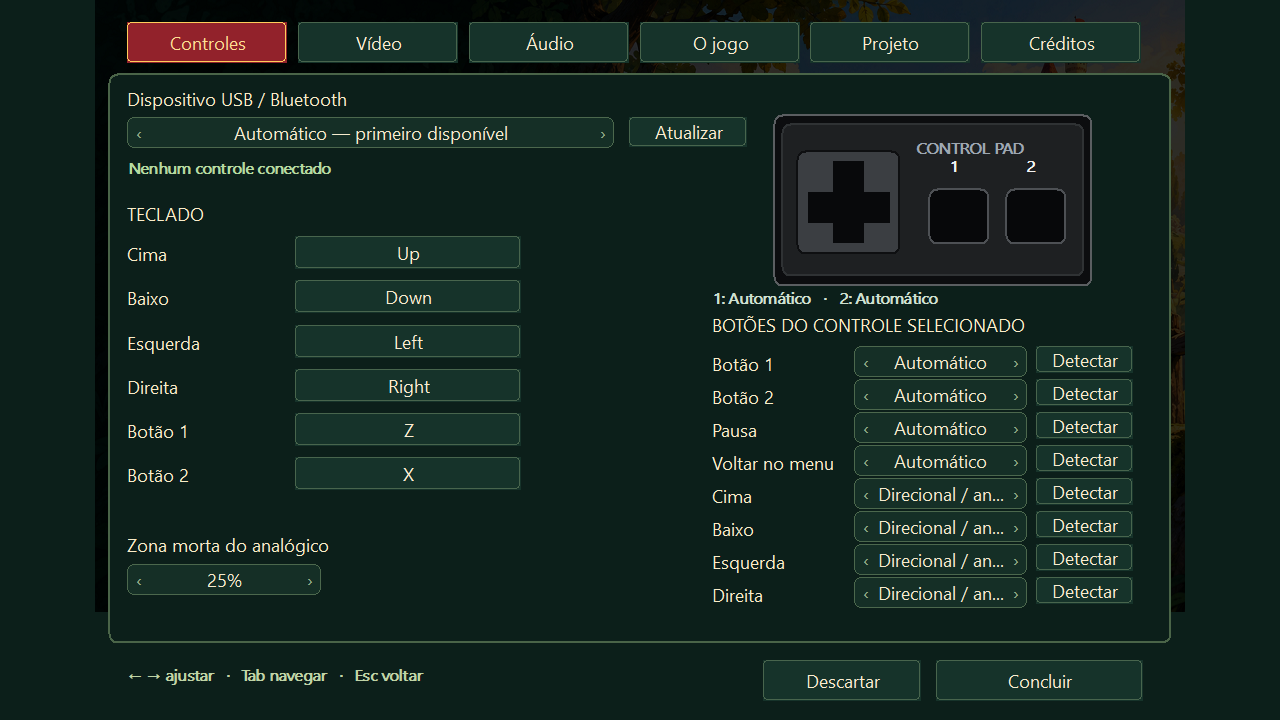
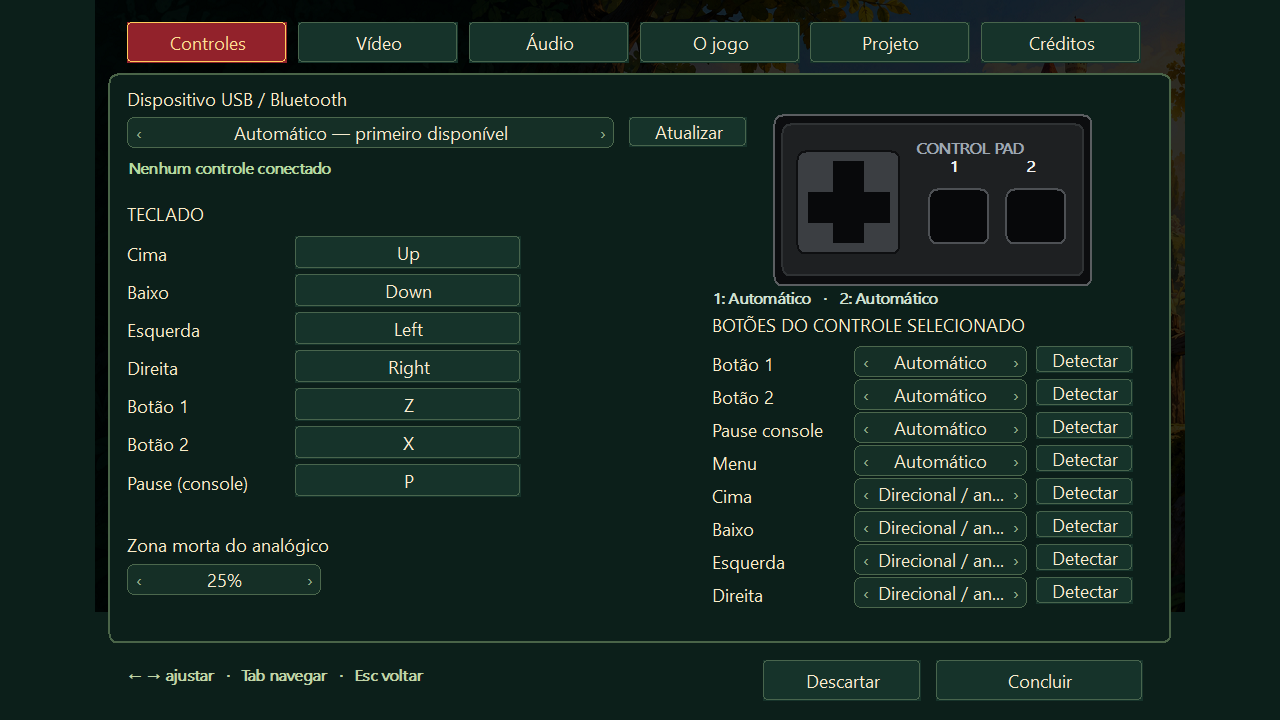
Add original console Pause through NMI with replay-safe input and modern menu separation

diff --git a/src/preferences.c b/src/preferences.c
@@ -14,7 +14,7 @@
 #include <uxtheme.h>
 
 static HWND nav[6];static DWORD page_started,screen_started;static int closing;
-static HWND dialog,owner,tabs,items[96],key_buttons[6],pad_combos[8],device_combo,deadzone_combo;
+static HWND dialog,owner,tabs,items[96],key_buttons[7],pad_combos[8],device_combo,deadzone_combo;
 static HWND video_controls[8],audio_controls[6];
 static Preferences pending,original,*target;
 static InputDevice devices[32];static int device_count,item_count,current_tab,capture_key=-1,capture_pad=-1,release_pad;
@@ -22,18 +22,18 @@ static HBRUSH paper;static HFONT normal,heading,caption,widget_font;static wchar
 typedef struct{uint32_t *pixels;UINT w,h;BITMAPINFO info;} Picture;
 static Picture cover,advert,forest;
 static wchar_t feedback[200];
-static const wchar_t *actions[]={L"Cima",L"Baixo",L"Esquerda",L"Direita",L"Botão 1",L"Botão 2"};
-static const wchar_t *pad_actions[]={L"Botão 1",L"Botão 2",L"Pausa",L"Voltar no menu",L"Cima",L"Baixo",L"Esquerda",L"Direita"};
+static const wchar_t *actions[]={L"Cima",L"Baixo",L"Esquerda",L"Direita",L"Botão 1",L"Botão 2",L"Pause (console)"};
+static const wchar_t *pad_actions[]={L"Botão 1",L"Botão 2",L"Pause console",L"Menu",L"Cima",L"Baixo",L"Esquerda",L"Direita"};
 static int clamp(int v,int low,int high){return v<low?low:v>high?high:v;}
 static void read_int(const wchar_t *section,const wchar_t *name,int *v,int low,int high,const wchar_t *path){*v=clamp(GetPrivateProfileIntW(section,name,*v,path),low,high);}
 static void write_int(const wchar_t *s,const wchar_t *k,int v,const wchar_t *path){wchar_t value[32];swprintf(value,32,L"%d",v);WritePrivateProfileStringW(s,k,value,path);}
 void preferences_defaults(Preferences *p){
-    memset(p,0,sizeof *p);int initial[]={VK_UP,VK_DOWN,VK_LEFT,VK_RIGHT,'Z','X'};memcpy(p->keys,initial,sizeof initial);
+    memset(p,0,sizeof *p);int initial[]={VK_UP,VK_DOWN,VK_LEFT,VK_RIGHT,'Z','X','P'};memcpy(p->keys,initial,sizeof initial);
     for(int i=0;i<8;i++)p->buttons[i]=-1;p->deadzone=25;p->resolution=1;p->volume=100;p->sample_rate=48000;p->brightness=100;p->latency=1;
 }
 void preferences_load(Preferences *p,const wchar_t *path){
     preferences_defaults(p);wchar_t key[32],device[512];
-    for(int i=0;i<6;i++){swprintf(key,32,L"key%d",i);read_int(L"input",key,&p->keys[i],1,254,path);}
+    for(int i=0;i<7;i++){swprintf(key,32,L"key%d",i);read_int(L"input",key,&p->keys[i],1,254,path);}
     for(int i=0;i<8;i++){swprintf(key,32,L"button%d",i);read_int(L"input",key,&p->buttons[i],-1,255,path);}
     GetPrivateProfileStringW(L"input",L"device",L"",device,512,path);WideCharToMultiByte(CP_UTF8,0,device,-1,p->device,512,NULL,NULL);
     read_int(L"input",L"deadzone",&p->deadzone,5,80,path);
@@ -48,7 +48,7 @@ void preferences_load(Preferences *p,const wchar_t *path){
 }
 void preferences_save(const Preferences *p,const wchar_t *path){
     wchar_t k[32],device[512];
-    for(int i=0;i<6;i++){swprintf(k,32,L"key%d",i);write_int(L"input",k,p->keys[i],path);}
+    for(int i=0;i<7;i++){swprintf(k,32,L"key%d",i);write_int(L"input",k,p->keys[i],path);}
     for(int i=0;i<8;i++){swprintf(k,32,L"button%d",i);write_int(L"input",k,p->buttons[i],path);}
     MultiByteToWideChar(CP_UTF8,0,p->device,-1,device,512);WritePrivateProfileStringW(L"input",L"device",device,path);
     write_int(L"input",L"deadzone",p->deadzone,path);
@@ -127,7 +127,7 @@ static void build_page(int page){
     if(page==0){
         label(L"Dispositivo USB / Bluetooth",32,84,450);device_combo=combo(32,114,475,10);widget(L"BUTTON",L"Atualizar",WS_TABSTOP,520,114,115,30,11);rebuild_devices();
         label(L"TECLADO",32,196,300);
-        for(int i=0;i<6;i++){wchar_t name[80];key_name(pending.keys[i],name);label(actions[i],32,235+i*43,160);key_buttons[i]=widget(L"BUTTON",name,WS_TABSTOP,195,230+i*43,220,33,100+i);}
+        for(int i=0;i<7;i++){wchar_t name[80];key_name(pending.keys[i],name);label(actions[i],32,235+i*37,160);key_buttons[i]=widget(L"BUTTON",name,WS_TABSTOP,195,230+i*37,220,33,100+i);}
         label(L"Zona morta do analógico",32,518,340);deadzone_combo=combo(32,549,190,12);for(int i=0;i<13;i++){wchar_t p[20];swprintf(p,20,L"%d%%",10+i*5);option(deadzone_combo,p);}select_at(deadzone_combo,clamp((pending.deadzone-10)/5,0,12));
         label(L"BOTÕES DO CONTROLE SELECIONADO",600,304,390);
         int n=input_button_count();if(n<32)n=32;if(n>128)n=128;
@@ -271,7 +271,7 @@ static LRESULT CALLBACK procedure(HWND hwnd,UINT msg,WPARAM wp,LPARAM lp){
         if(id==2){input_select(original.device);input_configure(original.buttons);input_set_deadzone(original.deadzone);closing=1;screen_started=GetTickCount();return 0;}
         if(id==11){rebuild_devices();return 0;}
         if(id==10 && HIWORD(wp)==CBN_SELCHANGE){int i=selection(device_combo);snprintf(pending.device,sizeof pending.device,"%s",i>0&&i<=device_count?devices[i-1].key:"");input_select(pending.device);input_update();InvalidateRect(hwnd,NULL,FALSE);return 0;}
-        if(id>=100&&id<106){capture_key=id-100;SetWindowTextW(key_buttons[capture_key],L"Pressione uma tecla…");return 0;}
+        if(id>=100&&id<107){capture_key=id-100;SetWindowTextW(key_buttons[capture_key],L"Pressione uma tecla…");return 0;}
         if(id>=300&&id<308){capture_pad=id-300;release_pad=0;SetWindowTextW(hwnd,L"Solte e pressione o botão desejado no controle");return 0;}
         if(id==50)ShellExecuteW(hwnd,L"open",L"https://turmadamonica.fandom.com/pt-br/wiki/M%C3%B4nica_no_Castelo_do_Drag%C3%A3o",NULL,NULL,SW_SHOWNORMAL);
         if(id==51)ShellExecuteW(hwnd,L"open",L"https://www.smspower.org/Games/MonicaNoCasteloDoDragao-SMS",NULL,NULL,SW_SHOWNORMAL);
@@ -296,7 +296,7 @@ void preferences_open(HWND parent,Preferences *p,int tab,const wchar_t *assets){
 int preferences_route(MSG *msg){
     if(!dialog)return 0;
     if(capture_key>=0 && msg->message==WM_KEYDOWN){
-        int key=(int)msg->wParam;if(key!=VK_ESCAPE){int used=0;for(int i=0;i<6;i++)if(i!=capture_key&&pending.keys[i]==key)used=1;
+        int key=(int)msg->wParam;if(key!=VK_ESCAPE){int used=0;for(int i=0;i<7;i++)if(i!=capture_key&&pending.keys[i]==key)used=1;
             if(used || key==VK_F2||key==VK_F5||key==VK_F9||key==VK_F11){wcscpy(feedback,L"Tecla em uso. Escolha outra para continuar.");InvalidateRect(dialog,NULL,FALSE);return 1;}pending.keys[capture_key]=key;}
         wchar_t name[80];key_name(pending.keys[capture_key],name);SetWindowTextW(key_buttons[capture_key],name);capture_key=-1;feedback[0]=0;InvalidateRect(dialog,NULL,FALSE);return 1;
     }

diff --git a/src/app.c b/src/app.c
@@ -35,6 +35,8 @@ static wchar_t rom_path[32768], root[32768], ini[32768], pending_load[32768];
 static Replay movie;
 static int running, paused, start_requested, quitting, restart_requested, slot=1, full_screen;
 static int session_ended;
+static int console_pause_pulse;
+static int console_pause_hover;
 
 
 static uint32_t framebuffer[256*192];
@@ -138,8 +140,9 @@ static void set_paused(int value){
 }
 static int key_down(int key){return GetForegroundWindow()==window && (GetAsyncKeyState(key)&0x8000);}
 static uint8_t input_mask(void){
-    uint8_t mask=0;for(int i=0;i<6;i++)if(key_down(keys[i]))mask|=1<<i;
-    if(GetForegroundWindow()==window)mask|=input_read().pad;return mask;
+    uint8_t mask=0;for(int i=0;i<7;i++)if(key_down(keys[i]))mask|=1<<i;
+    if(GetForegroundWindow()==window){InputState input=input_read();mask|=input.pad;if(input.menu&INPUT_START)mask|=SMS_PAD_START;}
+    if(console_pause_pulse){mask|=SMS_PAD_START;console_pause_pulse=0;}return mask;
 }
 static void paint_content(HDC dc,RECT client){
     int w=client.right,h=client.bottom;
@@ -157,6 +160,9 @@ static void paint_content(HDC dc,RECT client){
     BITMAPINFO info={0};info.bmiHeader.biSize=sizeof(BITMAPINFOHEADER);info.bmiHeader.biWidth=256;info.bmiHeader.biHeight=-192;info.bmiHeader.biPlanes=1;info.bmiHeader.biBitCount=32;
     SetStretchBltMode(dc,cfg.filter?HALFTONE:COLORONCOLOR);
     StretchDIBits(dc,dest.left,dest.top,dest.right-dest.left,dest.bottom-dest.top,source.left,source.top,source.right-source.left,source.bottom-source.top,display,&info,DIB_RGB_COLORS,SRCCOPY);
+    RECT button={w-48,14,w-14,48};HBRUSH b=CreateSolidBrush(console_pause_hover?RGB(146,34,43):RGB(12,31,26));HPEN p=CreatePen(PS_SOLID,1,RGB(211,184,112));HGDIOBJ ob=SelectObject(dc,b),op=SelectObject(dc,p);
+    RoundRect(dc,button.left,button.top,button.right,button.bottom,10,10);SelectObject(dc,ob);SelectObject(dc,op);DeleteObject(b);DeleteObject(p);
+    b=CreateSolidBrush(RGB(255,225,159));RECT bar={w-37,24,w-33,39};FillRect(dc,&bar,b);OffsetRect(&bar,8,0);FillRect(dc,&bar,b);DeleteObject(b);
     draw_notification(dc,w,h);
 }
 static void paint(HDC dc,RECT client){
@@ -250,6 +256,8 @@ static LRESULT CALLBACK window_proc(HWND hwnd,UINT msg,WPARAM wp,LPARAM lp){
     }
     case WM_SIZE:if(controls[0])theme_layout(hwnd,controls,MENU_COUNT);preferences_resize();InvalidateRect(hwnd,NULL,FALSE);return 0;
     case WM_TIMER:if((!running || paused)&&!preferences_active()){InvalidateRect(hwnd,NULL,FALSE);for(int i=0;i<MENU_COUNT;i++)InvalidateRect(controls[i],NULL,FALSE);}return 0;
+    case WM_MOUSEMOVE:{RECT r;GetClientRect(hwnd,&r);console_pause_hover=LOWORD(lp)>r.right-48&&LOWORD(lp)<r.right-14&&HIWORD(lp)>=14&&HIWORD(lp)<48;return 0;}
+    case WM_LBUTTONUP:{RECT r;GetClientRect(hwnd,&r);if(running&&!paused&&!preferences_active()&&LOWORD(lp)>r.right-48&&LOWORD(lp)<r.right-14&&HIWORD(lp)>=14&&HIWORD(lp)<48)console_pause_pulse=1;return 0;}
     case PREFS_APPLIED:apply_preferences();return 0;
     case PREFS_CLOSED:navigation();SetFocus(controls[running?0:rom_ready?0:4]);return 0;
     case WM_COMMAND:
@@ -268,6 +276,7 @@ static LRESULT CALLBACK window_proc(HWND hwnd,UINT msg,WPARAM wp,LPARAM lp){
         }return 0;
     case WM_KEYDOWN:
         if(lp & (1L<<30))return 0;
+        if(running&&!paused&&wp==(WPARAM)keys[6]){console_pause_pulse=1;return 0;}
         if((!running || paused) && (wp==VK_UP || wp==VK_DOWN)){SetFocus(controls[wp==VK_UP?MENU_COUNT-1:rom_ready?0:4]);return 0;}
         if((!running || paused) && wp==VK_RETURN){SendMessageW(hwnd,WM_COMMAND,GetDlgCtrlID(controls[rom_ready?0:4]),0);return 0;}
         if(wp==VK_ESCAPE)SendMessageW(hwnd,WM_COMMAND,PAUSE,0);if(wp==VK_F5)SendMessageW(hwnd,WM_COMMAND,SAVE,0);
@@ -286,7 +295,8 @@ static void pump(void){
     }
     input_update();static uint16_t prior;uint16_t now=GetForegroundWindow()==window?input_read().menu:0;
     uint16_t pressed=now&~prior;
-    if(!preferences_active() && (pressed&INPUT_START)){if(running)set_paused(!paused);else if(rom_ready)SendMessageW(window,WM_COMMAND,PLAY,0);}
+    if(!preferences_active() && !running && (pressed&INPUT_START) && rom_ready)SendMessageW(window,WM_COMMAND,PLAY,0);
+    if(!preferences_active() && running && (pressed&INPUT_BACK)){set_paused(!paused);prior=now;return;}
     if((!running || paused) && !preferences_active()){
         int index=rom_ready?0:4;for(int i=0;i<MENU_COUNT;i++)if(GetFocus()==controls[i])index=i;
         if(pressed&(INPUT_UP|INPUT_DOWN)){int delta=pressed&INPUT_UP?MENU_COUNT-1:1;for(int tries=0;tries<MENU_COUNT;tries++){index=(index+delta)%MENU_COUNT;if(IsWindowEnabled(controls[index]))break;}SetFocus(controls[index]);}

diff --git a/src/verify.c b/src/verify.c
@@ -13,6 +13,7 @@ static uint64_t audio_hash=UINT64_C(14695981039346656037);
 static void audio(const int16_t *p,size_t n){ audio_hash=monica_hash(p,n*4,audio_hash); }
 static uint8_t script(uint64_t f){
     if(getenv("MONICA_VERIFY_IDLE"))return 0;
+    if(getenv("MONICA_VERIFY_PAUSE") && ((f>=700&&f<710)||(f>=1000&&f<1010)))return SMS_PAD_START;
     const char *action=getenv("MONICA_VERIFY_ACTION");
     if(action && f>=600 && f<1200)return (uint8_t)strtoul(action,NULL,0);
     if(f>=200 && f<210) return SMS_PAD_B1;
@@ -49,5 +50,6 @@ int wmain(int argc,wchar_t **argv){
     free(rom); glue_init(false,0); glue_require_native(true);glue_set_audio_sink(audio); glue_set_frame_callback(frame);
     const char *dump=getenv("MONICA_VERIFY_DUMP");if(dump)glue_set_dump(end_frame,dump);
     if(getenv("MONICA_VERIFY_REFERENCE"))glue_run_interp();else glue_run_step();
+    if(getenv("MONICA_VERIFY_PAUSE") && glue_console_pause_count()!=2){fprintf(stderr,"PAUSE_COUNT %u != 2\n",glue_console_pause_count());failed=1;}
     replay_free(&movie); return (failed || glue_frame_count()!=end_frame || glue_dispatch_miss_count()) ? 1 : 0;
 }

diff --git a/src/replay.c b/src/replay.c
@@ -16,7 +16,7 @@ uint32_t monica_crc32(const void *data,size_t n){
 }
 void replay_free(Replay *r){ free(r->inputs); memset(r,0,sizeof *r); }
 int replay_append(Replay *r,uint8_t input){
-    if(r->count>=REPLAY_MAX_FRAMES || (input & ~0x3f)) return 0;
+    if(r->count>=REPLAY_MAX_FRAMES || (input & ~0x7f)) return 0;
     if(r->count==r->capacity){
         uint32_t cap=r->capacity ? r->capacity*2 : 4096;
         if(cap>REPLAY_MAX_FRAMES) cap=REPLAY_MAX_FRAMES;
@@ -58,7 +58,7 @@ int replay_load(const wchar_t *path,Replay *out){
     r.inputs=malloc(r.count ? r.count : 1); if(!r.inputs) goto done;
     if(fread(r.inputs,1,r.count,f)!=r.count || fgetc(f)!=EOF) goto done;
     if(monica_crc32(r.inputs,r.count)!=get32(h+40)) goto done;
-    for(uint32_t i=0;i<r.count;i++) if(r.inputs[i] & ~0x3f) goto done;
+    for(uint32_t i=0;i<r.count;i++) if(r.inputs[i] & ~0x7f) goto done;
     ok=1;
 done:
     fclose(f);

diff --git a/src/preferences.h b/src/preferences.h
@@ -4,7 +4,7 @@
 #define PREFS_APPLIED (WM_APP+20)
 #define PREFS_CLOSED (WM_APP+21)
 typedef struct {
-    int keys[6];
+    int keys[7];
     char device[512];int buttons[8],deadzone;
     int resolution,aspect,scale,filter,scanlines,brightness,fullscreen;
     int volume,muted,sample_rate,mono,latency;wchar_t audio_device[128];

diff --git a/README.md b/README.md
@@ -8,7 +8,7 @@ Um projeto de estudo de recompilação estática de um jogo de Master System par
 
 ![Menu](docs/images/menu.png)
 
-## Interface 0.7
+## Interface 0.8
 
 As configurações agora são páginas dentro da janela principal, com abas de Controles, Vídeo, Áudio, O jogo, Projeto e Créditos. A barra de menus do Windows foi removida. Os botões do menu ficam ocultos enquanto essas páginas estão abertas. Há transições de página, destaque de seleção, nova logo de fã inspirada na marca clássica da Mônica e ícone incorporado ao executável. Os seletores de valores são componentes próprios, ajustados por setas, mouse ou controle, sem listas do Windows em janelas separadas. Avisos de mapeamento e notificações são exibidos dentro da interface. Concluir aplica as alterações; Descartar preserva a configuração anterior.
 
@@ -19,6 +19,15 @@ As configurações agora são páginas dentro da janela principal, com abas de C
 ## Áudio e apresentação na versão 0.6
 
 A saída WinMM acumula blocos fixos de 10 ms e inicia com uma reserva de 20/40/60 ms conforme a opção de latência. Quando um buffer está ocupado, aguarda sua liberação em vez de descartar o trecho. O vídeo é composto fora da tela e apresentado em uma única cópia. Os rótulos de recompilação/projeto de estudo foram retirados do menu; o contexto continua em Sobre/Projeto/Créditos e nesta documentação.
+
+## Pause
+
+| Ação | Teclado | Controle | Mouse |
+|---|---|---|---|
+| Pause original do console | P (remapeável) | Start / Options (remapeável) | Ícone Ⅱ no canto superior direito |
+| Menu da versão para PC | Esc | Back / Share (remapeável) | — |
+
+O Pause original envia uma NMI ao vetor 0x0066, por borda de aperto. Segurar o botão não repete o evento. O menu do PC oferece salvar/carregar e configurações, sem confundir esses dois comandos. Origem técnica: https://www.smspower.org/Development/PauseButton . Saves anteriores continuam aceitos; builds antigos não leem saves novos que contenham eventos de Pause.
 
 ## Licenças e permissões
 
@@ -70,7 +79,7 @@ Requer Windows x64, PowerShell, Git, CMake e Clang/MinGW com `mingw32-make` no P
 ./test-local.ps1 -RomPath 'C:/caminho/Monica no Castelo do Dragao (Brazil).sms'
 ```
 
-O script prepara versões fixas das dependências, aplica os patches, gera o C a partir da ROM e compila localmente. A primeira preparação pode demorar vários minutos. O executável fica em **local-bin/v0.7/MonicaRecomp-v0.7.exe**; mantenha `SDL3.dll` e `assets` junto dele.
+O script prepara versões fixas das dependências, aplica os patches, gera o C a partir da ROM e compila localmente. A primeira preparação pode demorar vários minutos. O executável fica em **local-bin/v0.8/MonicaRecomp-v0.8.exe**; mantenha `SDL3.dll` e `assets` junto dele.
 
[1 lines of base64/hex data omitted]
 
@@ -82,13 +91,13 @@ O repositório contém o frontend, os patches e os perfis de endereços. **Não 
 |---|---|
 | Mover | Setas |
 | Botões 1 / 2 | Z / X |
-| Pausar ou continuar | Esc |
+| Abrir/fechar o menu do PC | Esc |
 | Salvar / carregar slot | F5 / F9 |
 | Controles | F2 |
 | Alternar tela cheia | F11 |
 | Navegar / selecionar no menu | Setas, Tab e Enter |
 
-Os comandos são remapeáveis em **Controles**. Em gamepads padronizados, direcional/analógico movem a seleção, o botão sul confirma, o leste volta e Start pausa. O slot é escolhido no menu superior **Slot de save**.
+Os comandos são remapeáveis em **Controles**. Em gamepads padronizados, direcional/analógico movem a seleção, o botão sul confirma, o leste volta e Start pausa. O menu integrado usa o slot 1 nesta versão.
 
 As configurações, saves e `runtime.log` ficam em `%LOCALAPPDATA%/MonicaRecompPrototype`. O aplicativo não altera a ROM. Feche e reabra a versão mais recente após compilar alterações.
 

diff --git a/docs/VALIDATION.md b/docs/VALIDATION.md
@@ -40,3 +40,7 @@ Teste silencioso contra a saída WinMM real: 100 lotes de 3.733 frames de origem
 ## Revisão 0.7 — direções e botões
 
 Reproduzido no build anterior: pressionar cima entre os quadros 600 e 1200 causava dispatch ausente em 0x1942 no quadro 600. O perfil nativo passou de 4.986 para 5.010 endereços por banco. Foram testadas as máscaras 1, 2, 4, 8, 16, 32, 17, 33, 5, 9, 18 e 40 até o quadro 2400. Todos os roteiros nativos completaram com zero misses; framebuffer final e áudio acumulado coincidiram com o intérprete sobre o mesmo runtime. Isso não comprova cobertura de todas as fases. O aplicativo agora retorna ao menu se outra rota ainda não traduzida interromper a partida. Saves, controles e navegação integrada também passaram novamente.
+
+## Revisão 0.8 — Pause original do console
+
+Novo evento de aperto para NMI 0x0066, separado do menu do PC. Dois apertos nos quadros 700/1000, cada um segurado por dez quadros: exatamente duas NMIs em ambos os caminhos. Até o quadro 1800, framebuffer e áudio nativos coincidiram com a referência; zero misses. Save no quadro 850 (durante o Pause), restaurado em outro processo até 1800: mesmo estado, imagem e áudio. Save anterior da versão 0.7 no quadro 3500 também foi restaurado até 6000. O perfil contém agora 5.026 endereços. Patch do runtime aplicado a originais e comparado com a implementação testada. A API mantém os inputs antigos; o bit novo registra Pause para reprodução determinística.
